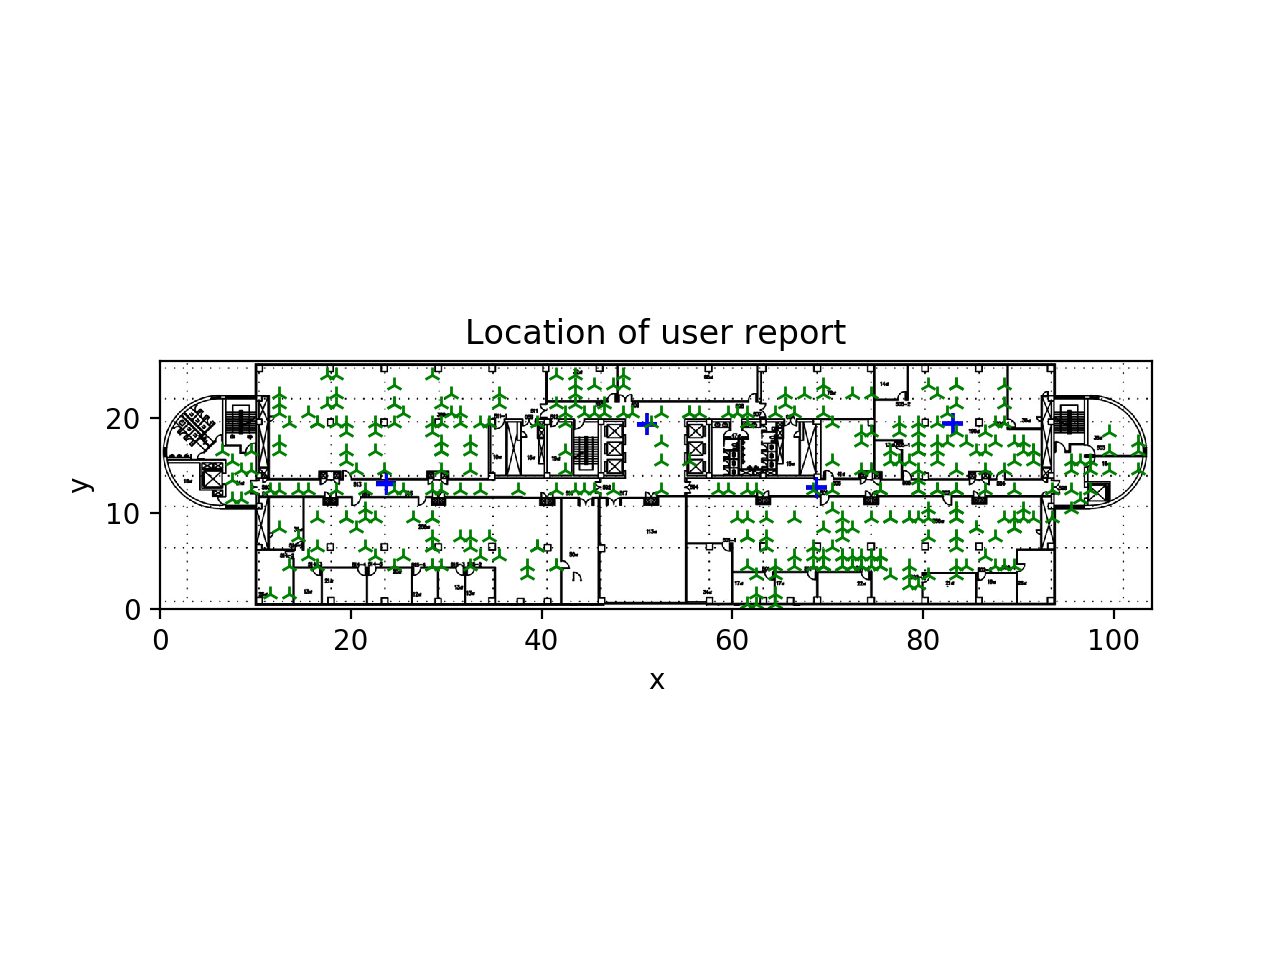
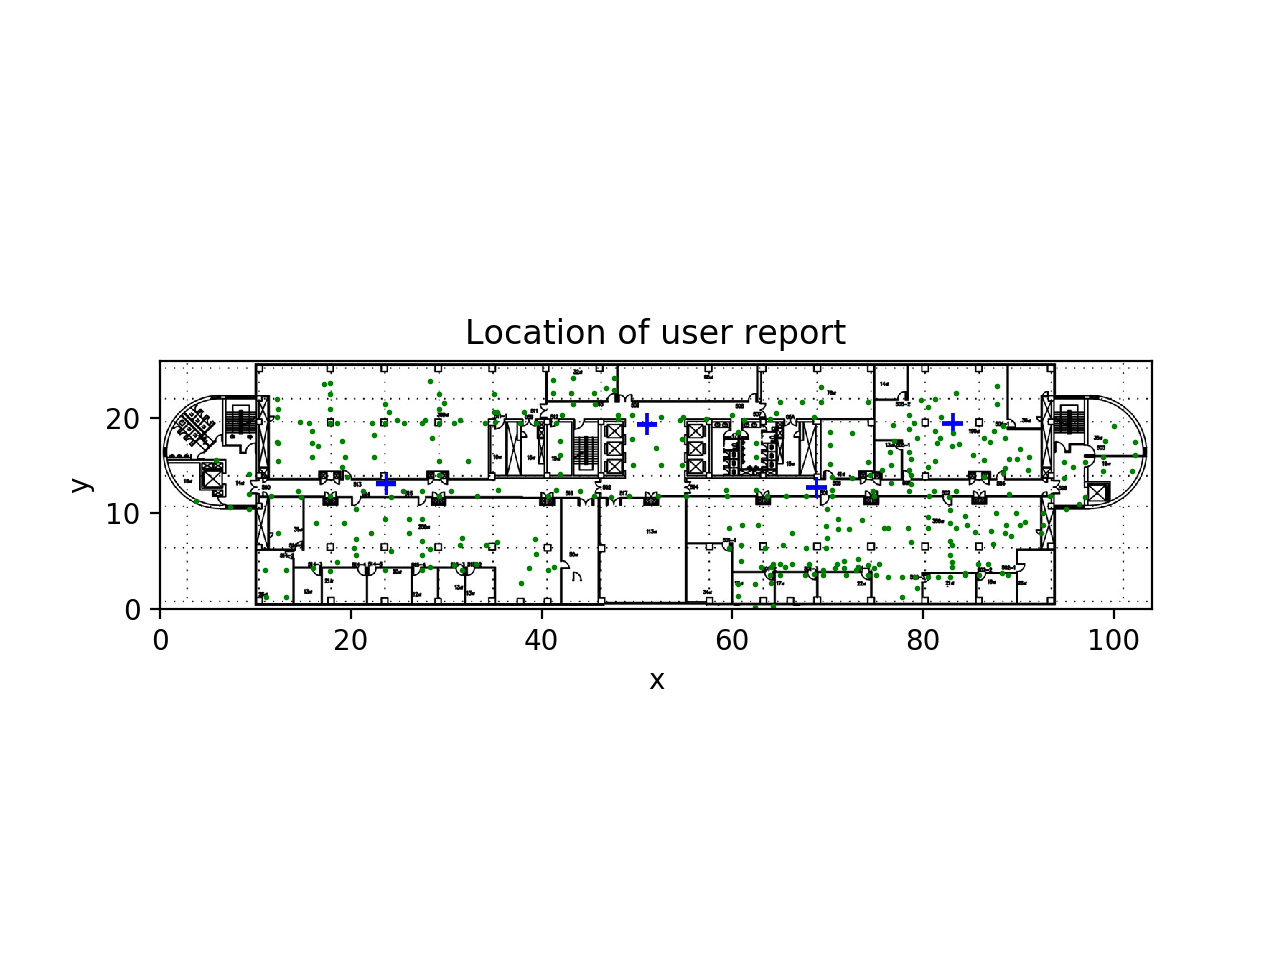
change drawBitMap function : modify marker

diff --git a/MasterThesis/Evaluation/Utility.py b/MasterThesis/Evaluation/Utility.py
@@ -59,7 +59,7 @@ def draw_bitmap(X_train):          # draw the location distribution of user repo
     """
     plt.figure(1)
     for i in range(len(X_train)):        
-        plt.plot(round(X_train[i][0])+0.5, round(X_train[i][1])+0.5, color='g', marker='2')  #shift x, y by 0.5 unit
+        plt.plot(X_train[i][0], X_train[i][1], color='g', marker='.', markersize=2)  #shift x, y by 0.5 unit
     #plt.grid(which = 'minor', color='black', linestyle='-', linewidth=0.5)
     img = plt.imread("./pic/51_5F.jpg")
     plt.imshow(img, zorder=0, extent=[0, map_size[0], 0, map_size[1]])
